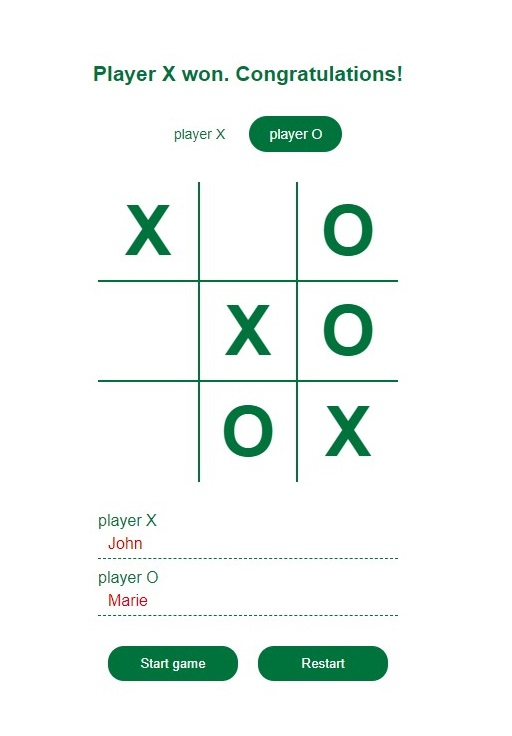
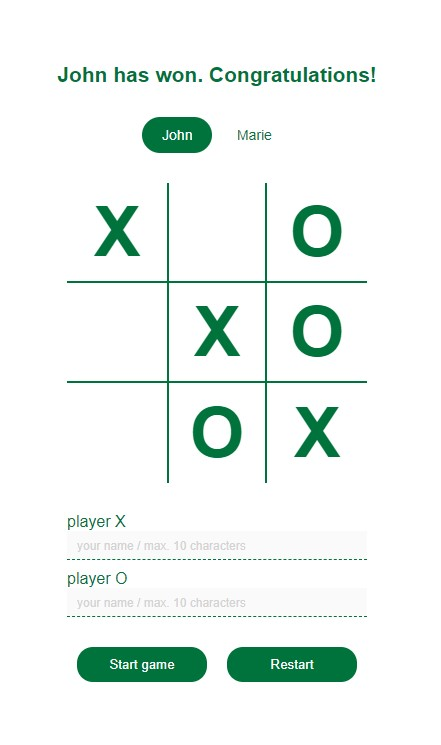
Updated Readme file, game screen.

diff --git a/index.html b/index.html
@@ -10,10 +10,10 @@
 </head>
 
 <body>
-    <p class="game-info">Player X won. Congratulations!</p>
+    <p class="game-info">John has won. Congratulations!</p>
     <div class="turn-info-box">
-        <div class="player-x ">player X</div>
-        <div class="player-o active">player O</div>
+        <div class="player-x active">John</div>
+        <div class="player-o">Marie</div>
     </div>
     <div class="grid">
         <div data-id="1" tabIndex="0">X</div>
@@ -29,9 +29,9 @@
     <div class="panel">
         <div class="input-box">
             <label for="player-x">player X</label>
-            <input type="text" id="player-x" placeholder="your name / max. 10 characters" maxlength="10">
+            <input type="text" id="player-x" placeholder="your name / max. 10 characters" maxlength="10" disabled>
             <label for="player-o">player O</label>
-            <input type="text" id="player-o" placeholder="your name / max. 10 characters" maxlength="10">
+            <input type="text" id="player-o" placeholder="your name / max. 10 characters" maxlength="10" disabled>
         </div>
         <div class="button-box">
             <button class="start">Start game</button>

diff --git a/sass/main.scss b/sass/main.scss
@@ -3,7 +3,7 @@
 	margin: 0;
 	padding: 0;
 	--primary-color: #00723b;
-    --secondary-color: #db0000;
+	--secondary-color: #db0000;
 }
 body {
 	display: flex;
@@ -65,7 +65,7 @@ body {
 			input {
 				font-size: 16px;
 				padding: 5px 10px;
-                color: var(--secondary-color);
+				color: var(--secondary-color);
 				border: none;
 				border-bottom: 1px dashed var(--primary-color);
 			}

diff --git a/README.md b/README.md
@@ -9,10 +9,10 @@ Tic Tac Toe game project focused on Javascript Factory Functions, Module Pattern
 ## Features
 
 Game logic built with Factory functions / Module Pattern.
-UX:
+# UX:
 
 - Game for 2 players / no AI-opponent available.
-- Each player can add his name or play as a "player X" / "player Y".
+- Each player can add his name or play with default name: "player X" / "player Y".
 - Restart button available.
 - Marker shows which player's turn for the next move.
 
@@ -20,9 +20,9 @@ UX:
 
 Built with:
 
-- HTML,
-- CSS(Sass),
-  \*Vanilla JavaScript.
+* HTML,
+* CSS(Sass),
+* Vanilla JavaScript.
 
 ## Inspiration & resources
 
